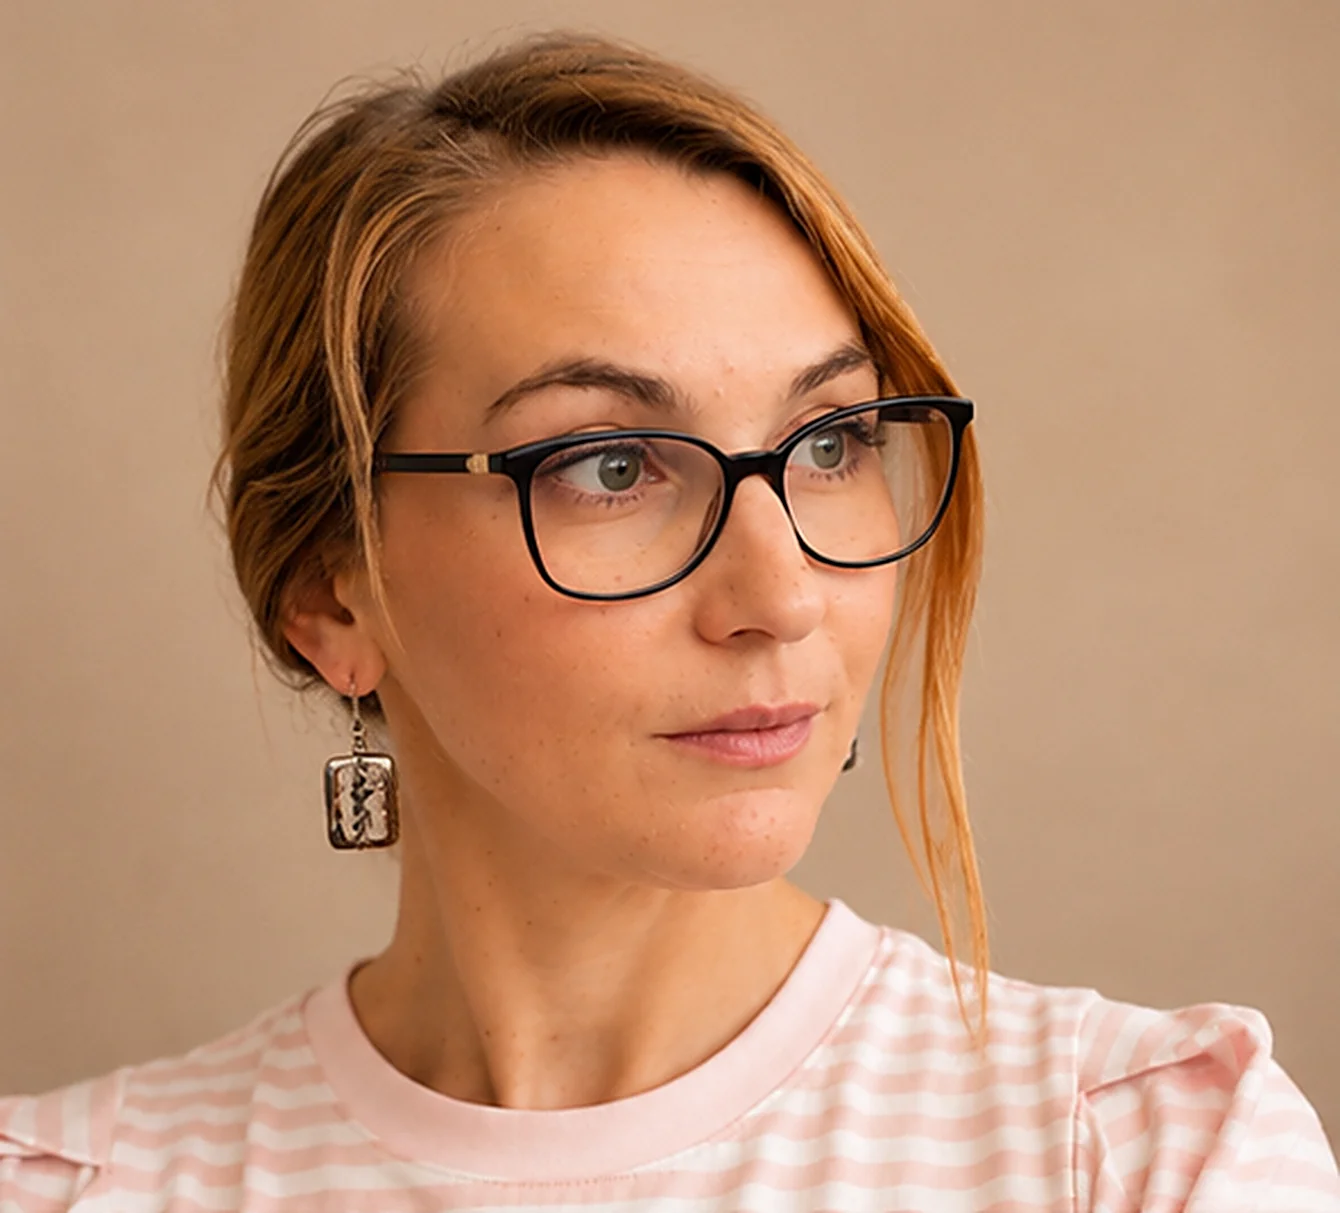
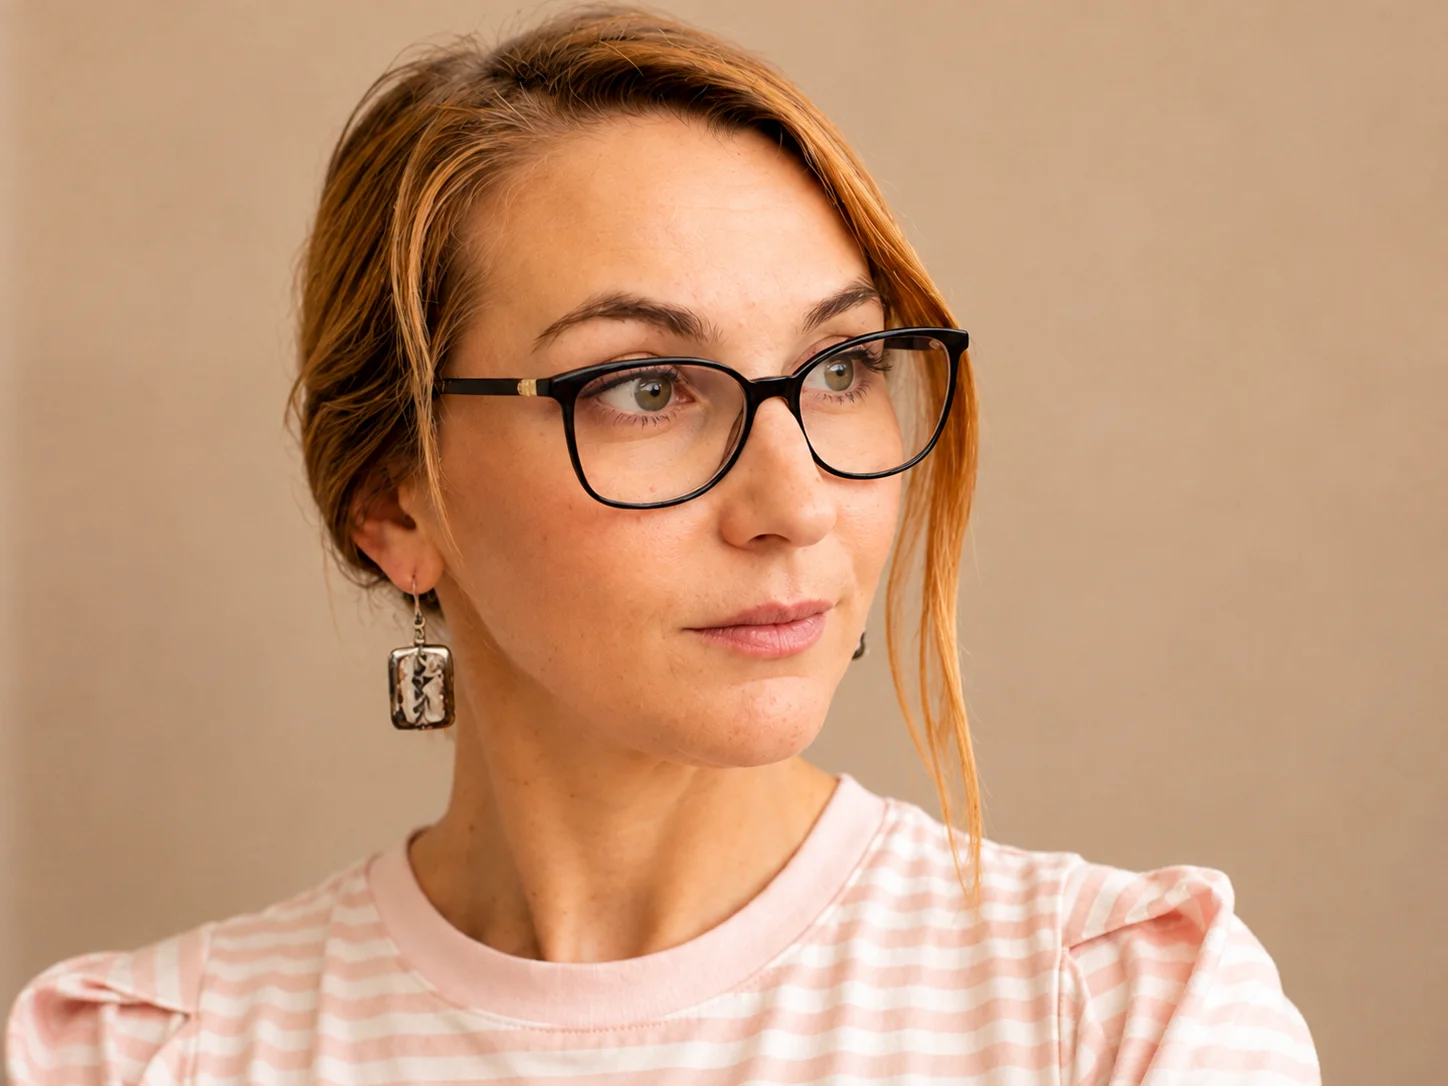
Replace Rebekah headshots with new high-res studio portraits
- Hero (4:5): front-facing direct-gaze portrait
- Meet therapist (3:4): three-quarter profile, object-position 44% center
  so the full face and glasses stay in frame
- About (4:5): front-facing portrait with headroom
- Update portrait alt text (no longer a therapy-office shot)

Verified in browser (desktop + mobile) that the full face is visible
in all three slots with no over-cropping.

diff --git a/src/pages/Home.tsx b/src/pages/Home.tsx
@@ -346,7 +346,7 @@ function MeetRebekah() {
           </div>
           <Reveal delay={120} className="order-1 lg:order-2 lg:col-span-4 lg:col-start-9">
             <div className="relative aspect-[3/4] overflow-hidden rounded-[6px] bg-mist shadow-lg shadow-navy/10">
-              <img src={img.portrait} alt="Rebekah Tozer in her therapy office" className="h-full w-full object-cover" />
+              <img src={img.portrait} alt="Rebekah Tozer, LISW-CP" className="h-full w-full object-cover object-[44%_center]" />
             </div>
           </Reveal>
         </div>
